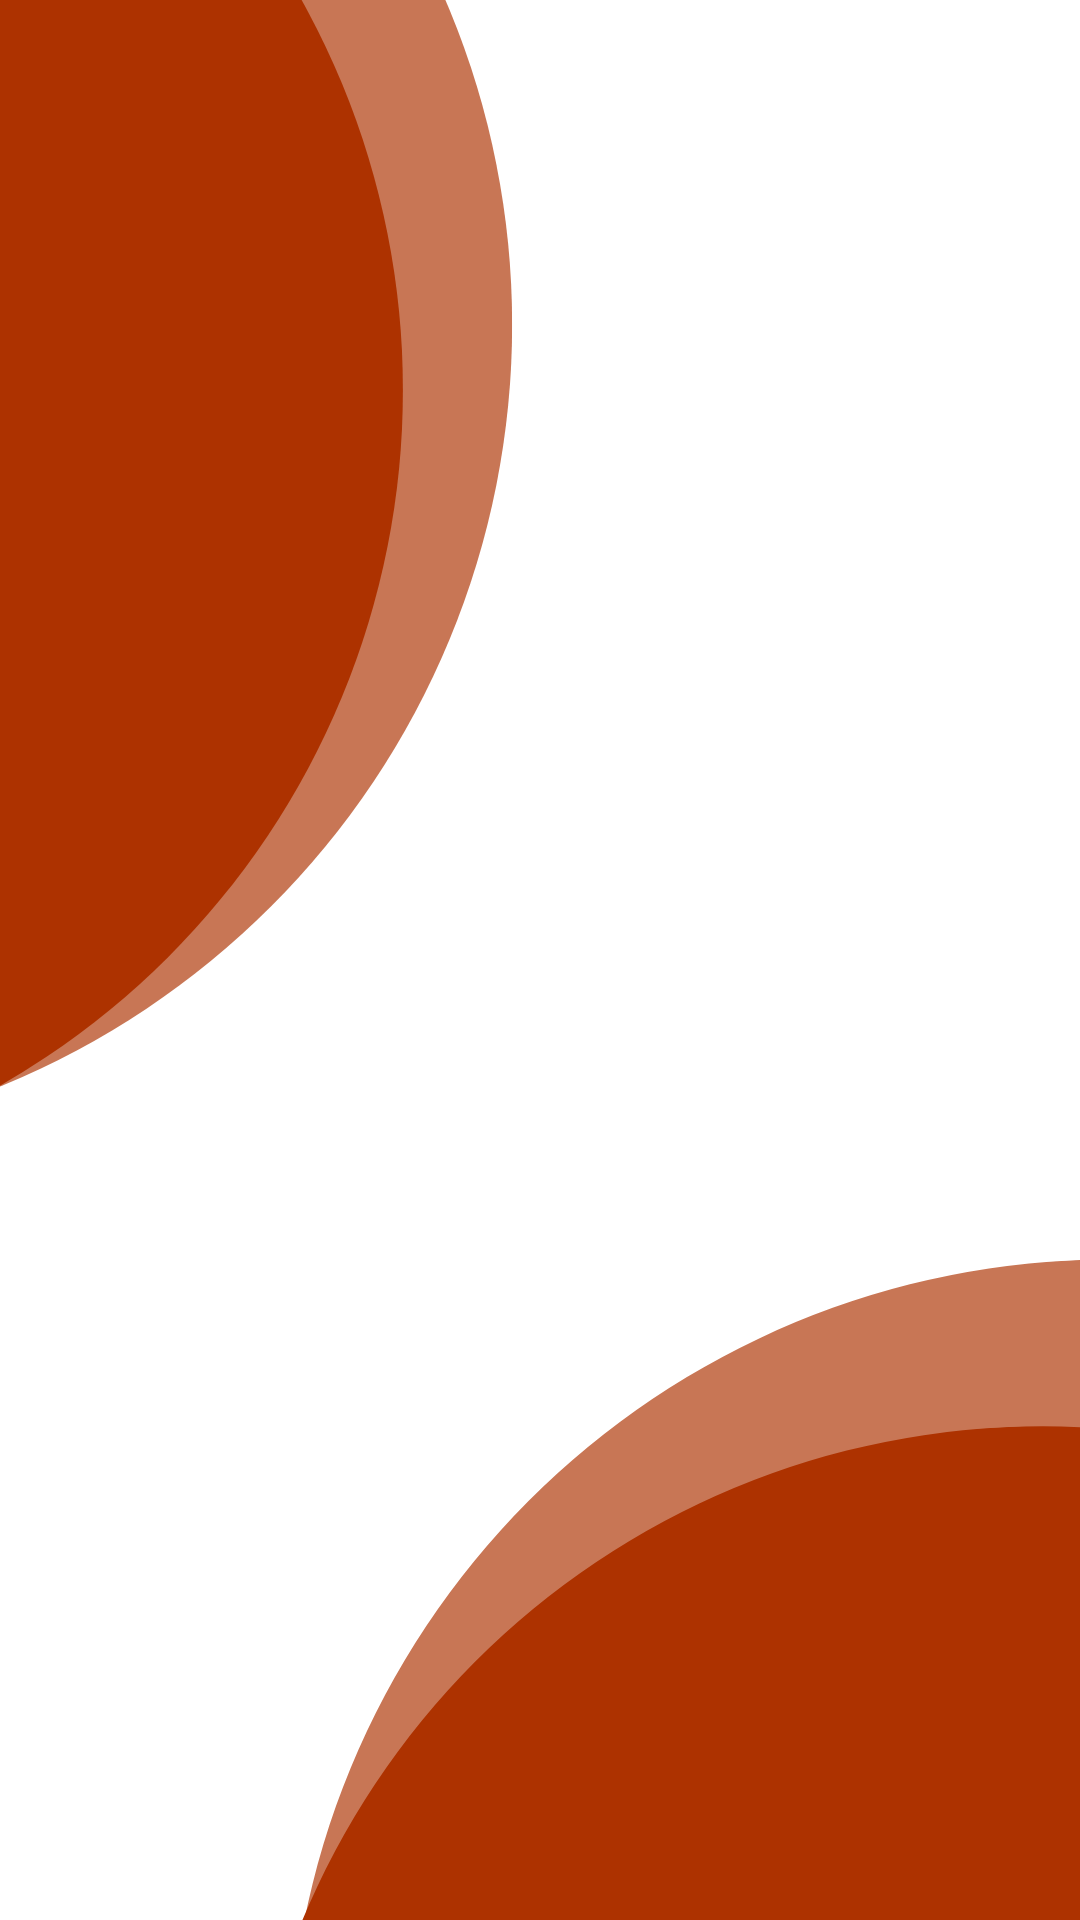
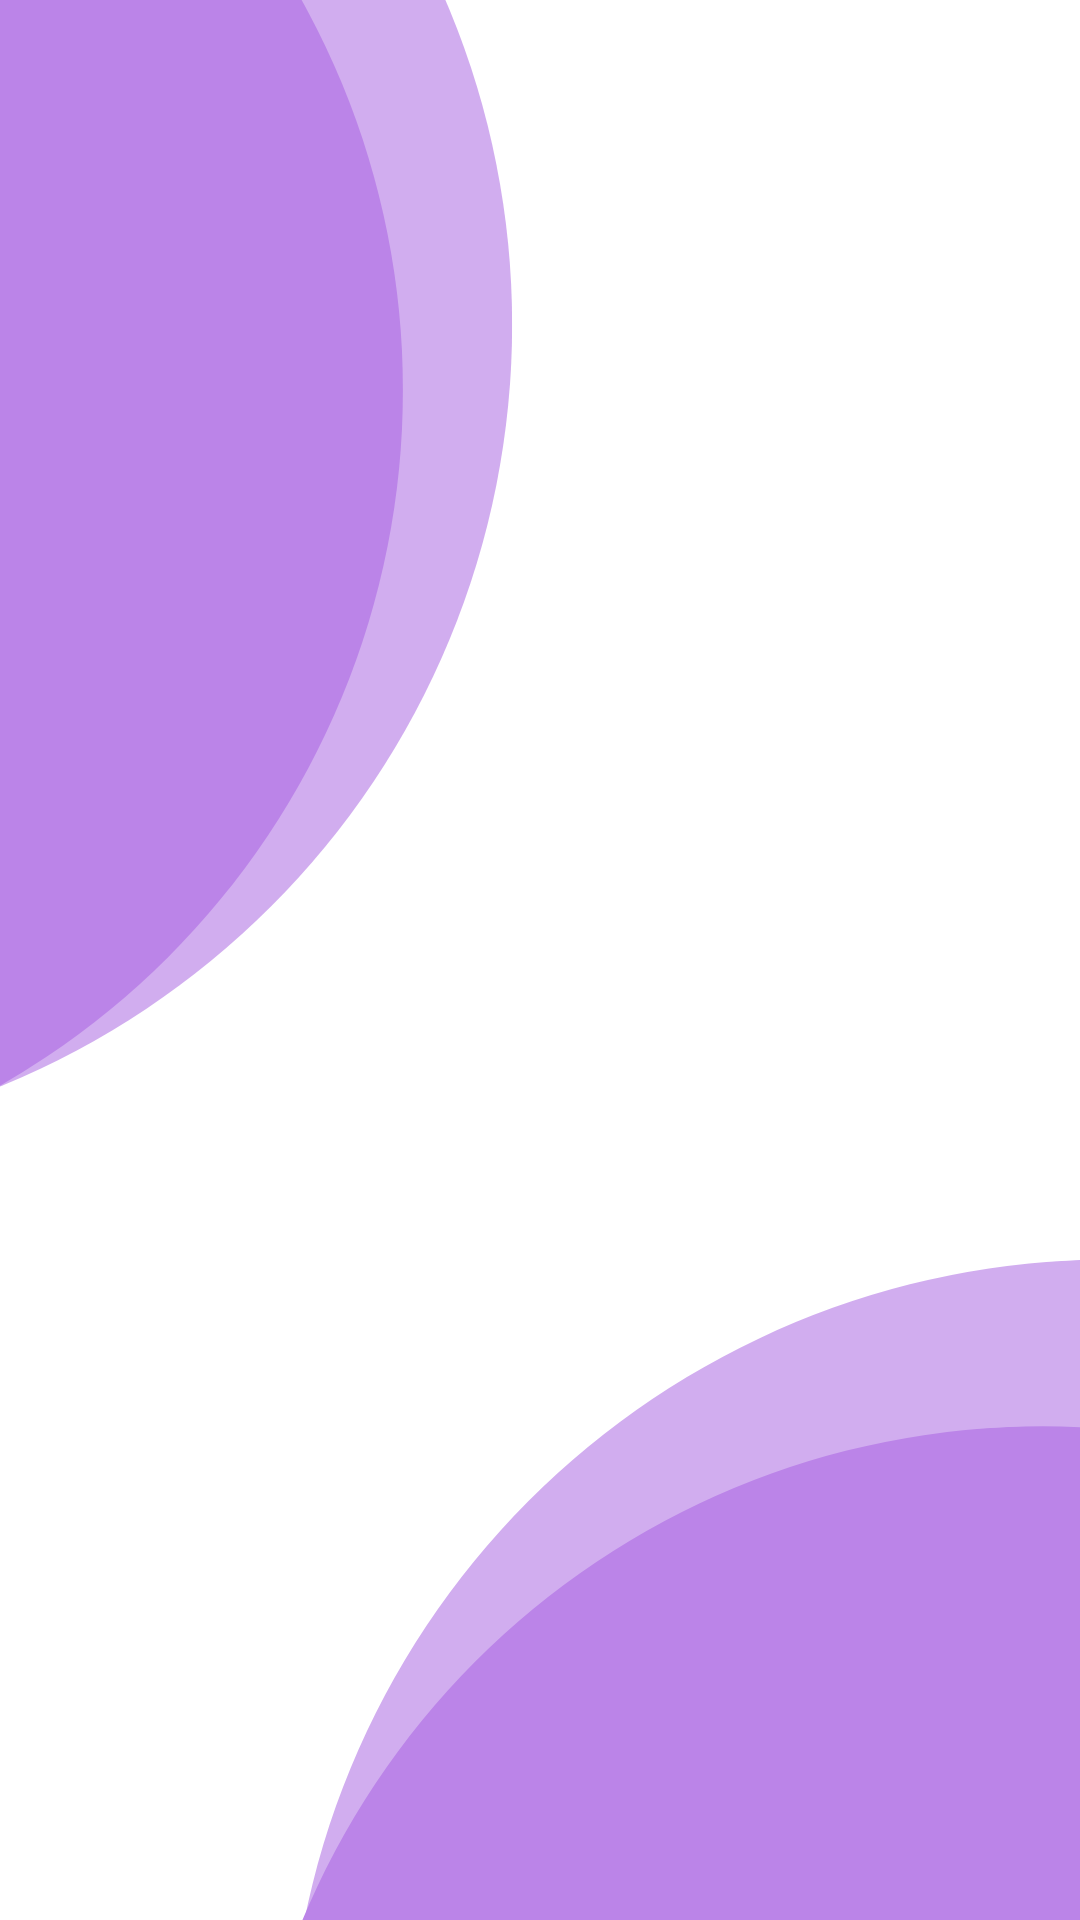
Update v2.2

diff --git a/lib/features/home_page/widget/bottom_nav_bar.dart b/lib/features/home_page/widget/bottom_nav_bar.dart
@@ -20,22 +20,18 @@ class MyBottomNavBar extends StatelessWidget {
             SalomonBottomBarItem(
               icon: const Icon(Icons.home),
               title: const Text("Home"),
-              selectedColor: Colors.deepOrangeAccent,
             ),
             SalomonBottomBarItem(
               icon: const Icon(Icons.search),
               title: const Text("Search"),
-              selectedColor: Colors.deepOrangeAccent,
             ),
             SalomonBottomBarItem(
               icon: const Icon(Icons.favorite_rounded),
               title: const Text("Likes"),
-              selectedColor: Colors.deepOrangeAccent,
             ),
             SalomonBottomBarItem(
               icon: const Icon(Icons.person),
               title: const Text("Profile"),
-              selectedColor: Colors.deepOrangeAccent,
             ),
           ],
         );

diff --git a/lib/main.dart b/lib/main.dart
@@ -1,5 +1,5 @@
 import 'package:flutter/material.dart';
-import 'package:mall_le/features/login_page/ui/login_page_ui.dart';
+import 'package:mall_le/features/home_page/ui/home_page_ui.dart';
 
 void main() {
   runApp(const MyApp());
@@ -13,10 +13,10 @@ class MyApp extends StatelessWidget {
     return MaterialApp(
       debugShowCheckedModeBanner: false,
       theme: ThemeData(
-        colorScheme: ColorScheme.fromSeed(seedColor: Colors.deepOrangeAccent),
+        colorScheme: ColorScheme.fromSeed(seedColor: Colors.purpleAccent, secondary: Colors.purple),
         useMaterial3: true,
       ),
-      home: const LoginPageUI(),
+      home: const HomePageUI(),
     );
   }
 }
